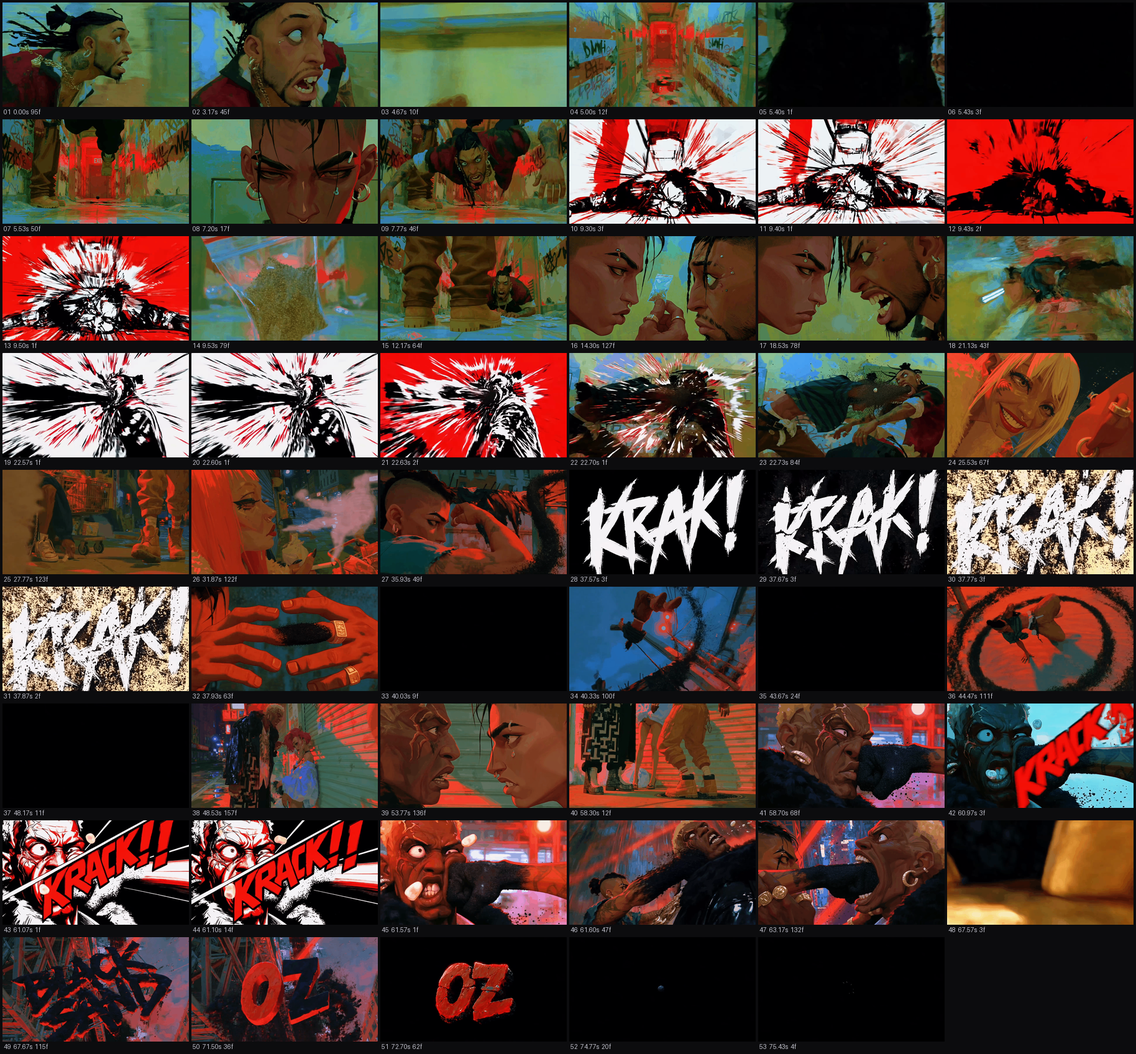
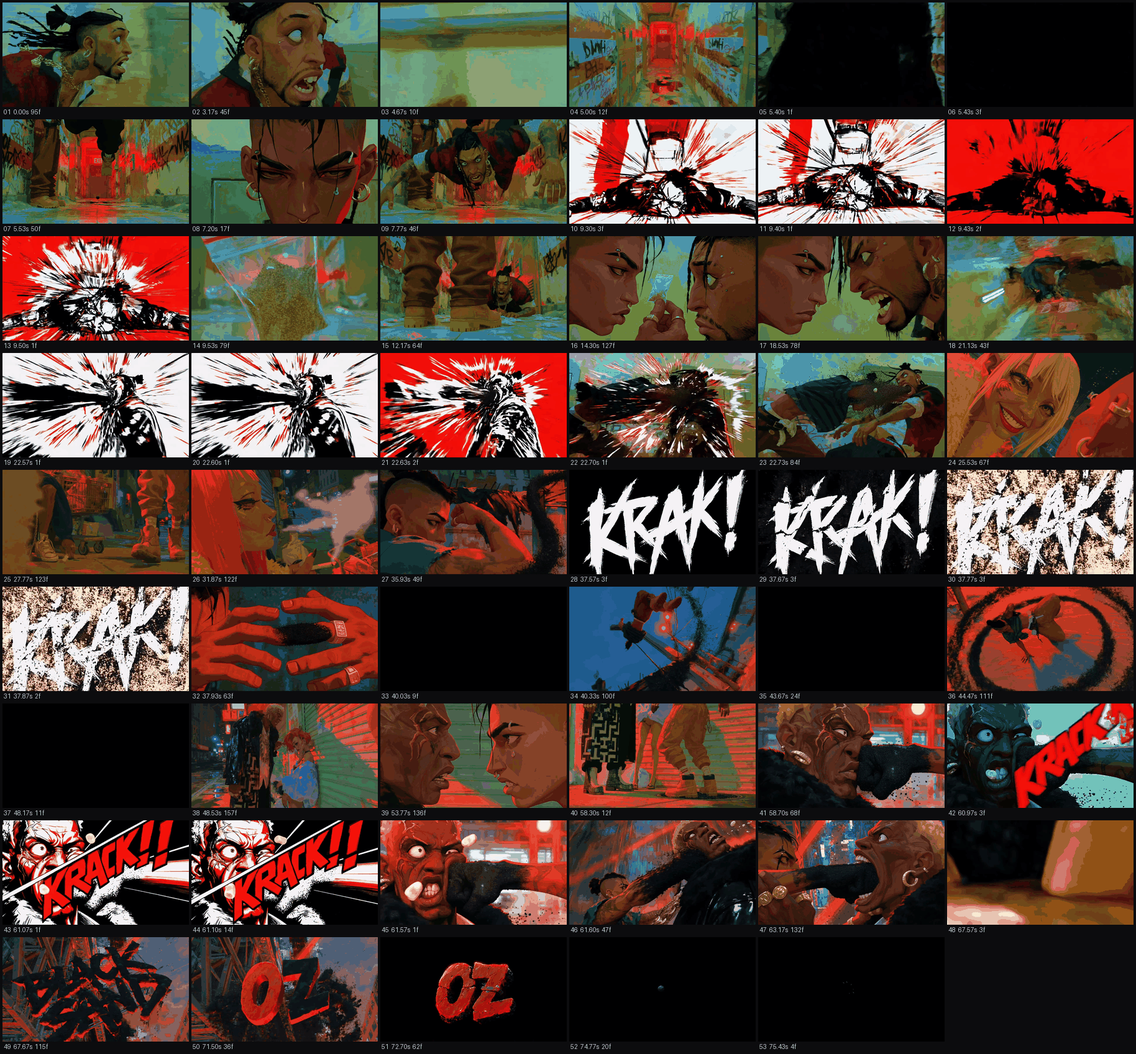
video-ia: sacar de git el grid de 0.5 s y comprimir las hojas de contacto
De 52 MB a 20 MB de material versionado, sin perder nada:

- El grid de un frame cada 0.5 s (228 PNG) pasa a analysis/*/frames_grid/, que
  queda fuera de git. Es material de analisis y se regenera en segundos desde ref/
  con tools/extraer_frames.py. Las hojas de contacto por tiempo, que es lo que se
  mira de verdad, si se quedan.
- Los frames representativos de cada plano (81) siguen en analysis/*/frames/,
  porque los enlaza shotlist.md. Comprobado: 0 enlaces rotos.
- Las hojas de contacto se cuantizan a 160 colores antes de guardarse: 21 MB
  pasan a 5.3 MB y en un estilo de paleta corta no se nota.

tools/paleta.py muestrea las dos carpetas, asi que los hex no cambian y STYLE.md
sigue siendo correcto (verificado: paleta identica antes y despues).

diff --git a/video-ia/tools/extraer_frames.py b/video-ia/tools/extraer_frames.py
@@ -7,8 +7,9 @@ Tres senales se combinan para decidir donde esta cada corte:
   3. cuts_soft.txt  ffmpeg select='gt(scene,0.12)'  -> solo dentro de planos largos, para
                                                        rescatar cortes suaves que 0.25 se salta
 Salida por video:
-  analysis/<video>/frames/t_SS.ss.png   grid cada 0.5 s + frame representativo de cada plano
-  analysis/<video>/shots.json           limites, duracion y frame de cada plano
+  analysis/<video>/frames/t_SS.ss.png       el frame representativo de cada plano
+  analysis/<video>/frames_grid/t_SS.ss.png  un frame cada 0.5 s (fuera de git: se regenera)
+  analysis/<video>/shots.json               limites, duracion y frame de cada plano
 No consulta ninguna API: solo ffmpeg local sobre los archivos de ref/.
 """
 import json, subprocess
@@ -84,7 +85,9 @@ def procesar(nombre: str) -> dict:
     mp4 = RAIZ / "ref" / f"{nombre}.mp4"
     dir_an = RAIZ / "analysis" / nombre
     dir_fr = dir_an / "frames"
+    dir_gr = dir_an / "frames_grid"
     dir_fr.mkdir(parents=True, exist_ok=True)
+    dir_gr.mkdir(parents=True, exist_ok=True)
 
     dur = duracion(mp4)
     lim = limites_de(nombre, dur)
@@ -115,9 +118,11 @@ def procesar(nombre: str) -> dict:
             "negro": any(a - 0.05 <= ini and fin <= b + 0.05 for a, b in negros),
         })
 
+    # El grid es material de analisis y se regenera en segundos desde ref/, asi que vive
+    # aparte y no entra en git: son 244 PNG.
     t = 0.0
     while t < dur - 0.1:
-        sacar_frame(mp4, t, dir_fr / f"t_{t:05.2f}.png", ANCHO_GRID)
+        sacar_frame(mp4, t, dir_gr / f"t_{t:05.2f}.png", ANCHO_GRID)
         t += 0.5
 
     datos = {"video": nombre, "duracion": round(dur, 2), "fps": 30, "resolucion": "1276x718",

diff --git a/video-ia/tools/hoja_contacto.py b/video-ia/tools/hoja_contacto.py
@@ -6,6 +6,7 @@ from PIL import Image, ImageDraw
 
 RAIZ = Path(__file__).resolve().parent.parent
 COLS, CELDA, PAD = 6, 300, 4
+COLORES = 160   # el estilo pintado tiene paleta corta: cuantizar no se nota y pesa un tercio
 
 
 def hoja(imagenes: list[tuple[Path, str]], destino: Path, cols: int = COLS) -> None:
@@ -22,7 +23,7 @@ def hoja(imagenes: list[tuple[Path, str]], destino: Path, cols: int = COLS) -> N
         y = PAD + (i // cols) * (h + PAD + 16)
         lienzo.paste(im, (x, y))
         d.text((x + 2, y + h + 2), etiqueta, fill=(190, 190, 200))
-    lienzo.save(destino, optimize=True)
+    lienzo.quantize(colors=COLORES, method=Image.MEDIANCUT).save(destino, optimize=True)
     print(f"{destino}  {len(imagenes)} celdas  {lienzo.size[0]}x{lienzo.size[1]}")
 
 
@@ -36,10 +37,8 @@ def por_planos(video: str) -> None:
 
 def por_tiempo(video: str) -> None:
     dir_an = RAIZ / "analysis" / video
-    datos = json.loads((dir_an / "shots.json").read_text())
-    reps = {p["frame"] for p in datos["planos"]}
     ims = [(f, f.stem.replace("t_", "") + "s")
-           for f in sorted((dir_an / "frames").glob("t_*.png")) if f.name not in reps]
+           for f in sorted((dir_an / "frames_grid").glob("t_*.png"))]
     hoja(ims, dir_an / "hoja_contacto_tiempo.png")
 
 

diff --git a/video-ia/tools/paleta.py b/video-ia/tools/paleta.py
@@ -97,7 +97,9 @@ def acentos(imagenes: list[Path], n: int = 4) -> list[dict]:
 def analizar(video: str) -> dict:
     dir_an = RAIZ / "analysis" / video
     datos = json.loads((dir_an / "shots.json").read_text())
-    frames = sorted((dir_an / "frames").glob("t_*.png"))
+    # las dos carpetas: el grid da la densidad y los frames de plano la representatividad
+    frames = sorted(list((dir_an / "frames").glob("t_*.png"))
+                    + list((dir_an / "frames_grid").glob("t_*.png")))
     res = {"video": video, "actos": []}
     for nombre, ini, fin in ACTOS[video]:
         del_acto = [f for f in frames if ini <= float(f.stem[2:]) < fin]
